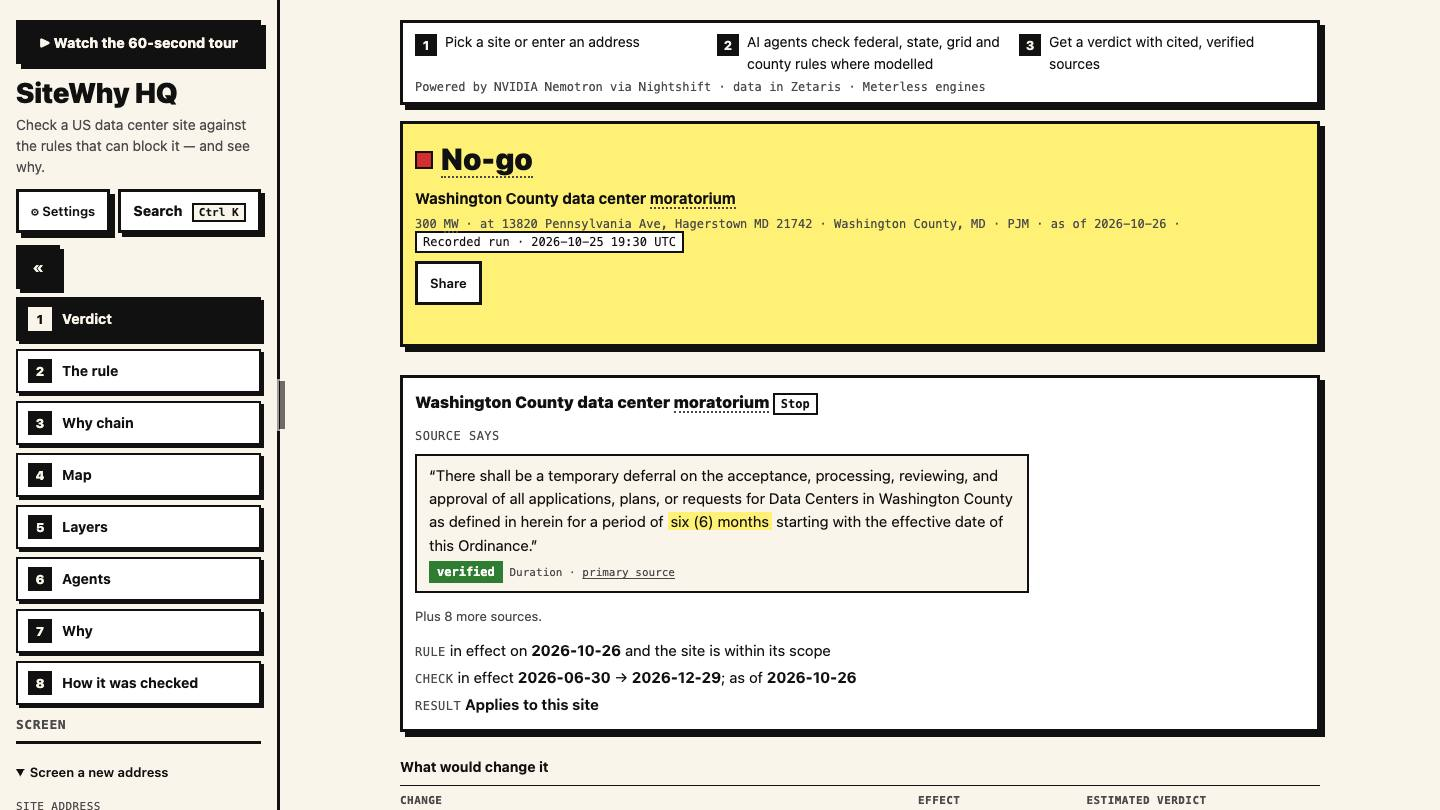
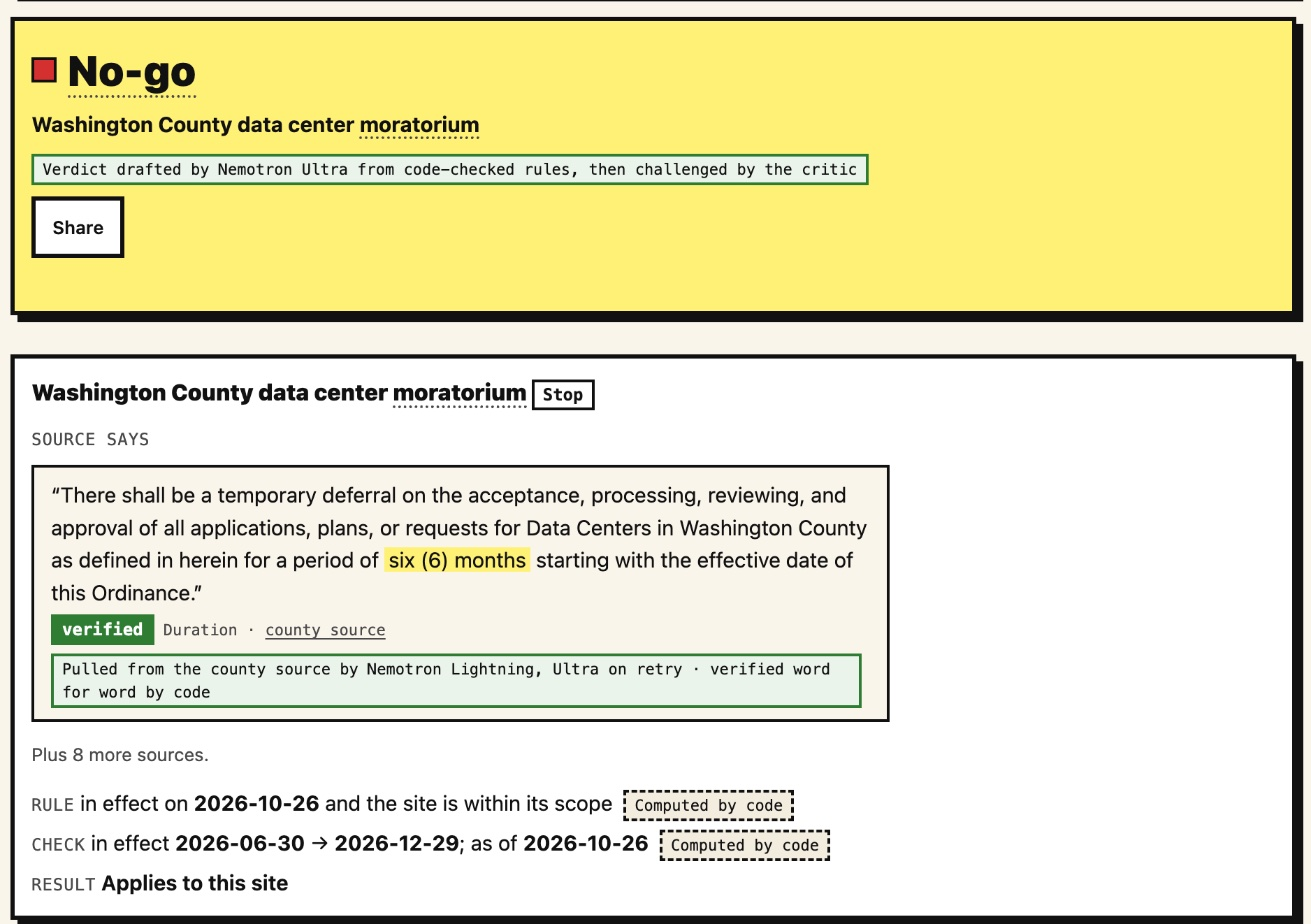
docs: README opens with what you get and where AI is used
Adds an At a glance section with the new explainer panel and refreshes the no-go screenshot with the provenance chips.

diff --git a/README.md b/README.md
@@ -27,6 +27,14 @@ Check a US data center site against the rules that can block it, and see exactly
 
 SiteWhy takes a US address and an IT load in megawatts and checks the site against federal, state, grid and county rules. It returns a go, conditional or no-go verdict, and every verdict comes with the verified rule text, the applicability math and the changes that would flip the answer. It is a screening tool for early site triage; it gives no legal advice.
 
+## 👀 At a glance
+
+<p align="center">
+  <img src="docs/img/screen-explainer.jpg" alt="The HQ explainer panel: what you get (verdict, the deciding rule quoted word for word, the math, what would change it) and where AI is used (Planner, County investigator, Adjudicator and Critic on Nemotron; Evidence verifier and Rule check in Python)" width="90%">
+</p>
+
+Every screening hands back four things: the verdict, the rule that decides it quoted word for word, the math behind it, and what would change the answer. The green steps are Nemotron calls through Meterless Nightshift. The dashed steps are plain Python, so the quote check and the threshold math stay deterministic. During a run the pipeline lights up step by step, and "Replay how this verdict was built" plays a finished report's own trace back.
+
 ## 🎬 Demo video
 
 The 3:27 narrated demo plays right here:
@@ -87,7 +95,7 @@ Listing tools such as Acres.com, Cherre DataCenter Intel, LightBox, Transect and
 
 <table>
   <tr>
-    <td width="33%"><img src="docs/img/screen-no-go.jpg" alt="No-go verdict for unincorporated Washington County with the verified six-month moratorium quote"></td>
+    <td width="33%"><img src="docs/img/screen-no-go.jpg" alt="No-go verdict for unincorporated Washington County with the verified six-month moratorium quote, tagged as pulled by Nemotron Lightning and verified by code, and the date check tagged as computed by code"></td>
     <td width="33%"><img src="docs/img/screen-flip.jpg" alt="Conditional verdict for Hagerstown city with the Title V threshold math and the 25 MW flip"></td>
     <td width="33%"><img src="docs/img/screen-model-trace.jpg" alt="Model trace listing each agent role, the Nemotron model it used, the Nightshift receipt and latency"></td>
   </tr>
